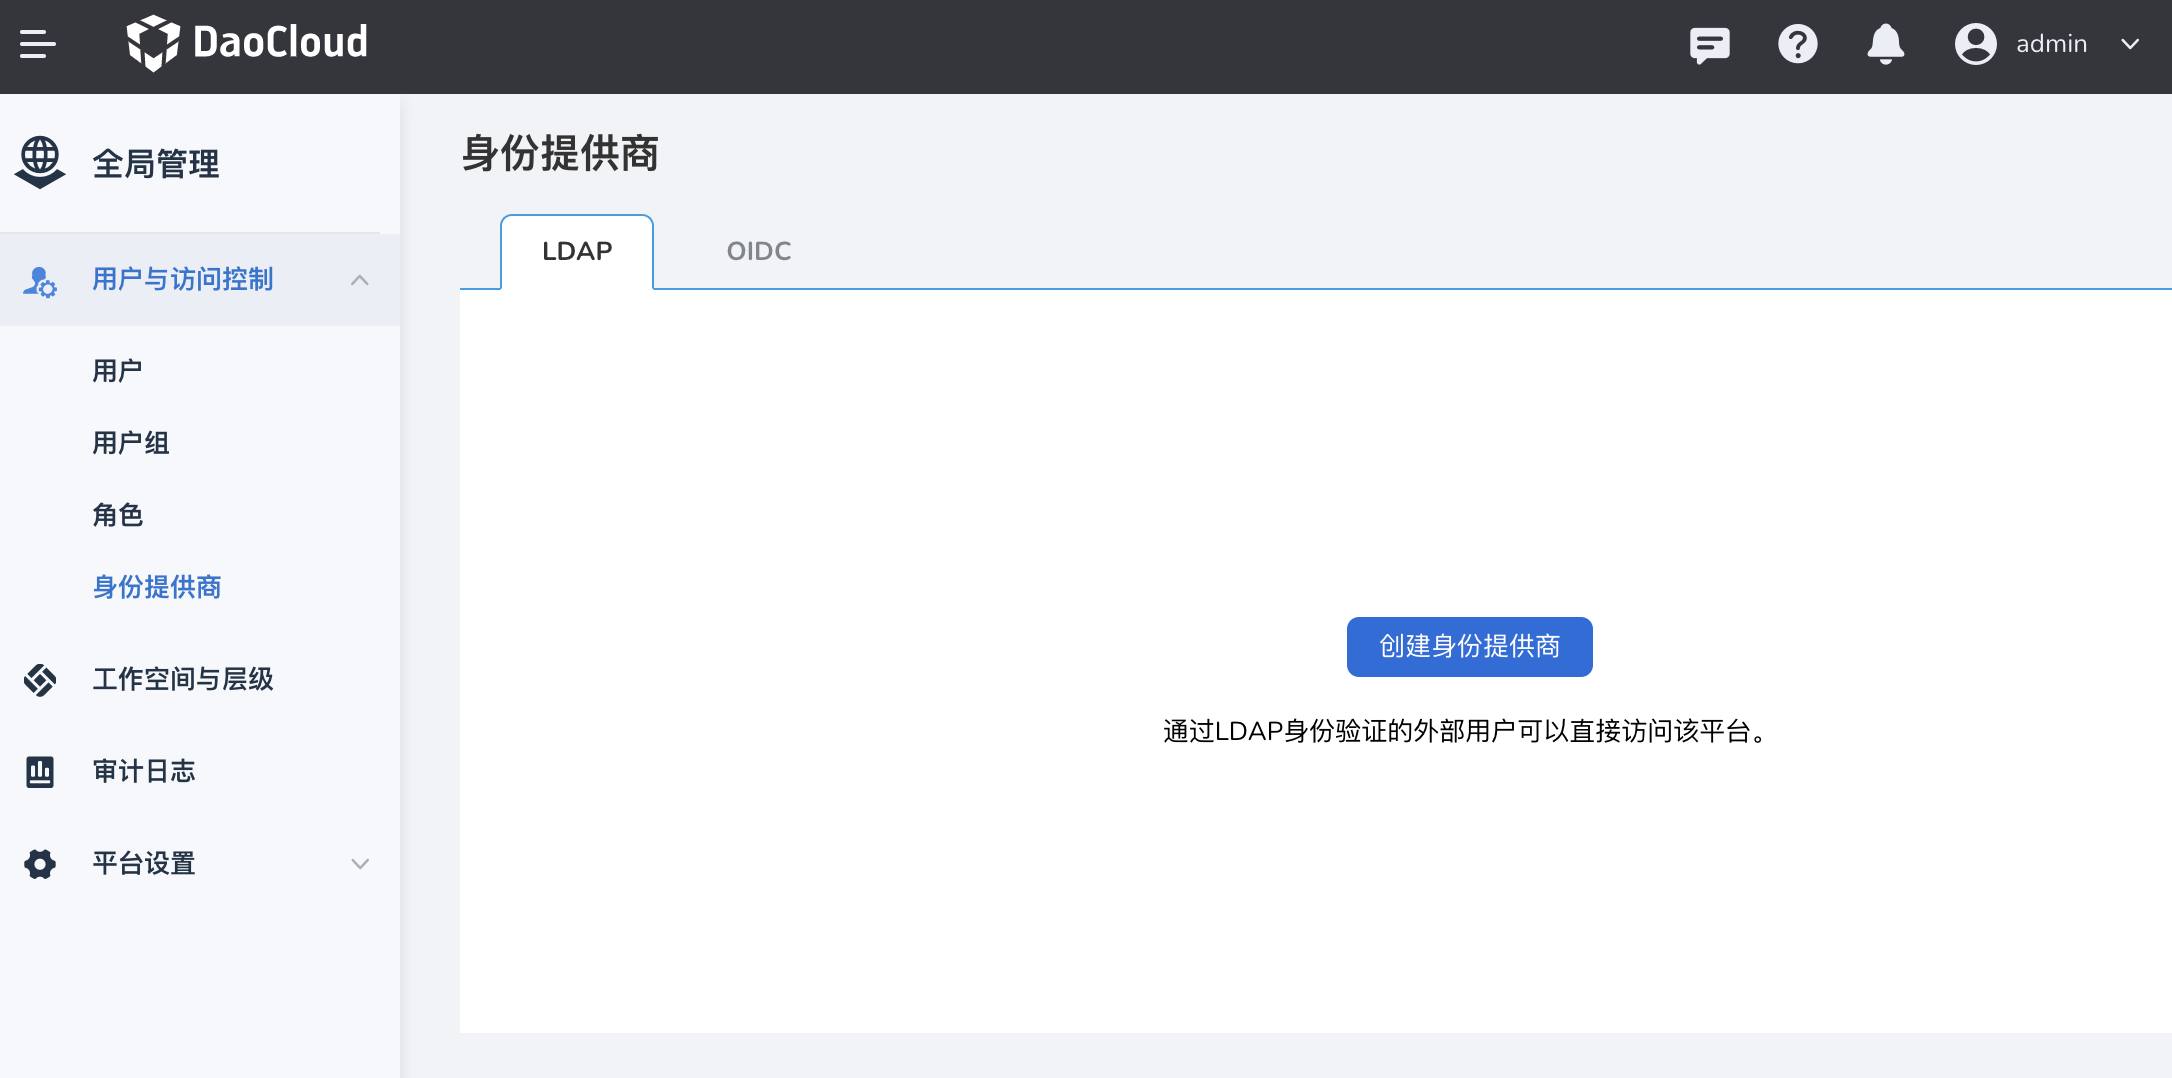
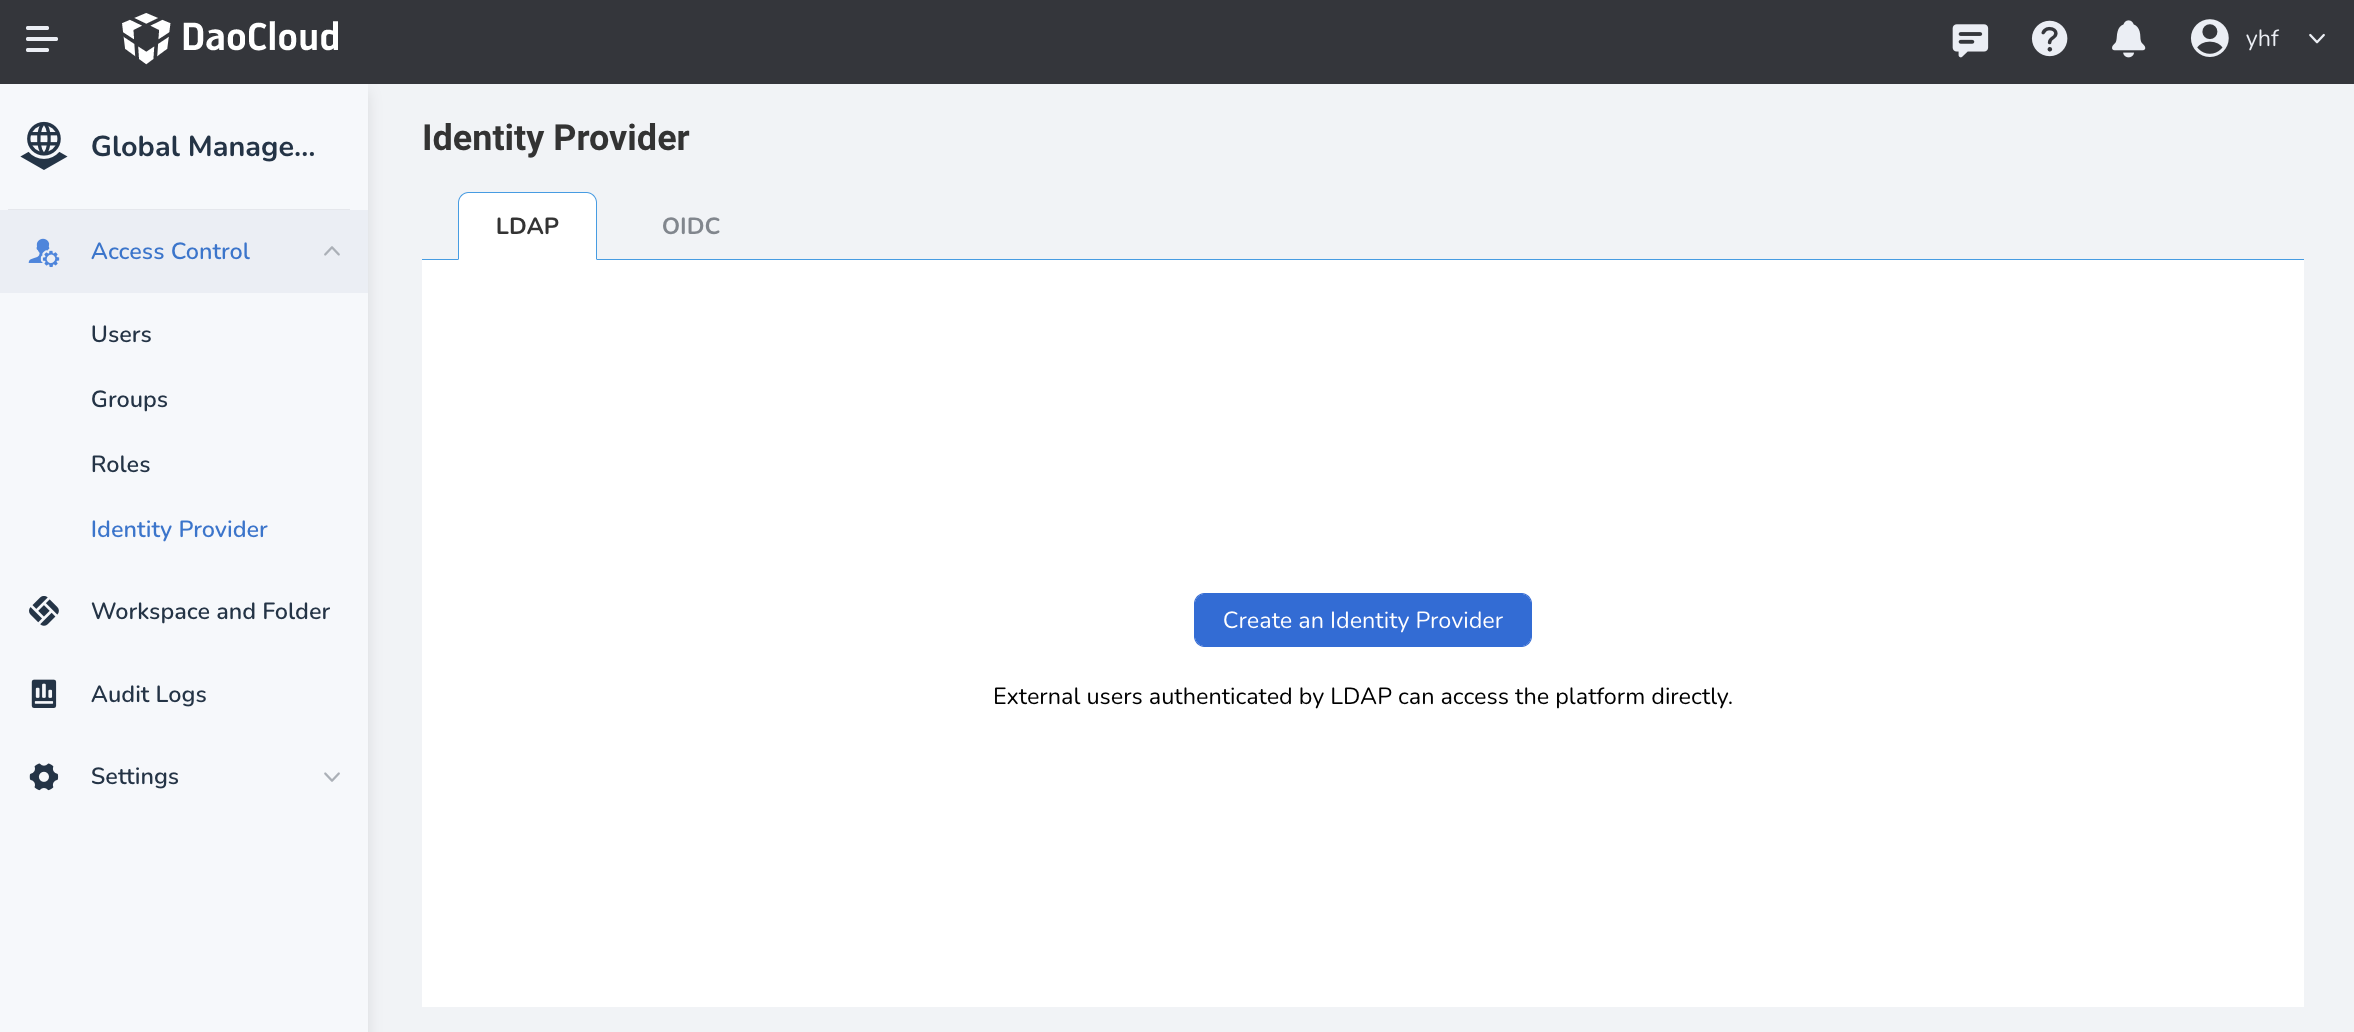
add en images to ldap

diff --git a/docs/en/docs/ghippo/04UserGuide/01UserandAccess/iam.md b/docs/en/docs/ghippo/04UserGuide/01UserandAccess/iam.md
@@ -1,6 +1,6 @@
-# What is access control
+# What is IAM
 
-IAM (Identity and Access Management, access control) is an important module of global management. You can create, manage and destroy users (groups) through the access control module, and use system roles and custom roles to control other users Access to the DCE Platform.
+IAM (Identity and Access Management) is an important module of global management. You can create, manage and destroy users (groups) through the access control module, and use system roles and custom roles to control other users Access to the DCE Platform.
 
 ![IAM definition](../../images/iam.png)
 

diff --git a/docs/en/docs/ghippo/04UserGuide/01UserandAccess/Group.md b/docs/en/docs/ghippo/04UserGuide/01UserandAccess/Group.md
@@ -68,8 +68,8 @@ Note: Deleting a group will not delete the users in the group, but the users in 
 
 3. Return to the group list, and the screen will prompt that the deletion is successful.
 
-    ![Delete Prompt](../../images/deletegroup03.png)
+    ![Prompt](../../images/deletegroup03.png)
 
 !!! note
 
-    Deleting a group will not delete the users in the group, but the users in the group will no longer be able to inherit the permissions of the group.
+    Deleting a group will not delete the users in the group, but the users in the group will no longer be able to inherit the permissions from the group.

diff --git a/docs/en/docs/ghippo/04UserGuide/01UserandAccess/ldap.md b/docs/en/docs/ghippo/04UserGuide/01UserandAccess/ldap.md
@@ -16,7 +16,7 @@ In global management, the operation steps are as follows:
 
     ![global](../../images/ws01.png)
 
-1. Navigate to `Users and Access Control` under `Global Administration`, select `Create Identity Provider`.
+1. Navigate to `Users and Access Control` under `Global Administration`, select `Create an Identity Provider`.
 
     ![Identity Provider](../../images/ldap00.png)
 
